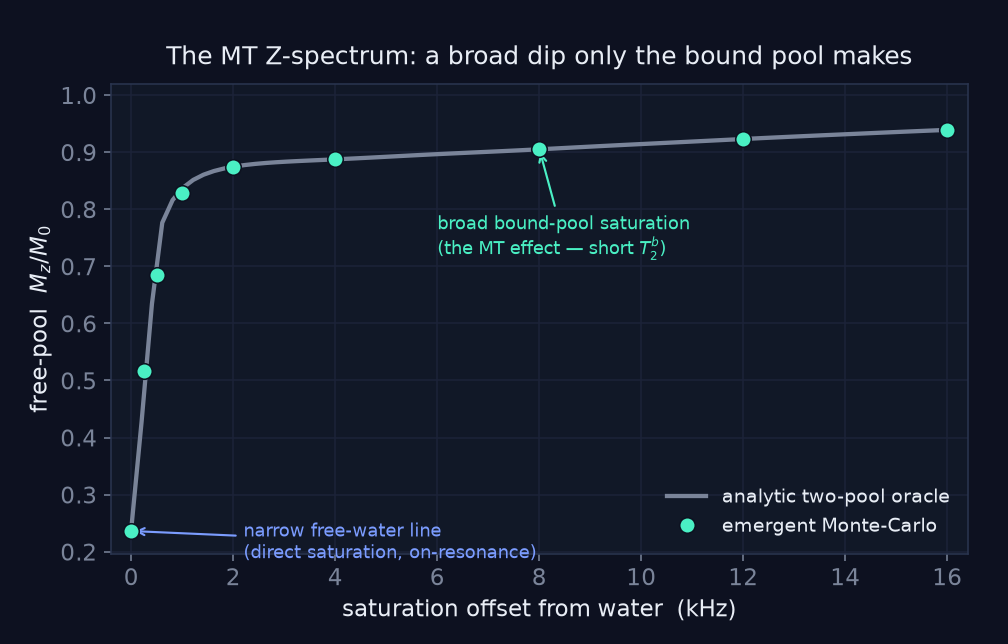
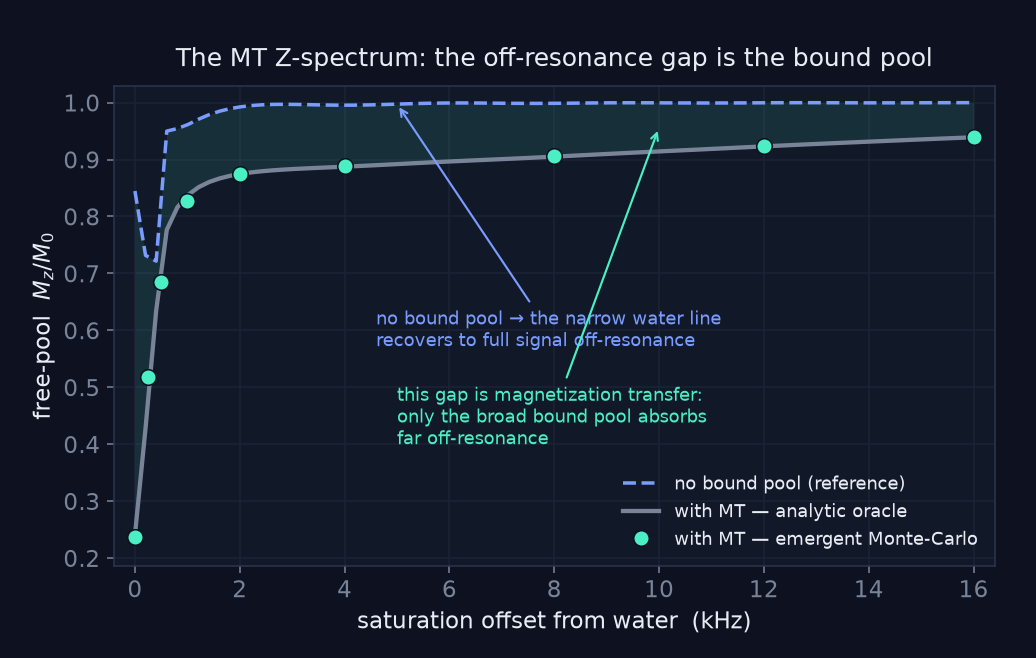
docs(mt): add a no-bound-pool reference line to the Z-spectrum figure
A single curve gave no anchor. Add the free-water-only reference (k_f=0, analytic): it recovers
to full signal off-resonance, so the shaded gap to the MT curve is the transfer itself. Annotate
the reference recovery and the gap; update the caption.

diff --git a/docs/media/fig_mt_zspectrum.py b/docs/media/fig_mt_zspectrum.py
@@ -52,6 +52,14 @@ def _oracle_total(offsets):
     return (za + m0b * zb) / (1.0 + m0b)
 
 
+def _free_only(offsets):
+    """Reference: free water with NO bound pool (k_f=0).  The narrow water line is directly
+    saturated only near resonance and recovers to ~1 off-resonance -- there is no broad
+    off-resonance absorber, so all the wide depression in the MT curve is the bound pool."""
+    return np.atleast_1d(mt.mt_z_spectrum(offsets, w1_hz=W1_HZ, t_sat=T_SAT, T1a=T1A, T2a=T2A,
+                                          T1b=T1B, T2b=T2B, k_f=0.0, k_r=K_R, read_pool="a"))
+
+
 def main():
     print("running emergent Z-spectrum sweep (GPU-recommended)...")
     mc = emergent_z_spectrum(MC_OFFSETS, Sphere(radius=R), n_walkers=6000, diffusivity=D,
@@ -59,27 +67,36 @@ def main():
                              kappa_MT=KAPPA_MT, dwell_time=DWELL, T2_bound=T2B, T1_bound=T1B,
                              equilibrate_binding="auto", seed=3)
     an_dense = _oracle_total(DENSE)
+    ref_dense = _free_only(DENSE)                  # no-bound-pool reference (analytic)
 
-    fig, ax = plt.subplots(figsize=(7.2, 4.6))
+    fig, ax = plt.subplots(figsize=(7.4, 4.7))
     fig.subplots_adjust(left=0.11, right=0.96, top=0.87, bottom=0.14)
+    # the MT effect = the gap between the two curves
+    ax.fill_between(DENSE / 1e3, an_dense, ref_dense, color=TEAL, alpha=0.11, lw=0)
+    ax.plot(DENSE / 1e3, ref_dense, "--", color=BLUE, lw=1.8,
+            label="no bound pool (reference)")
     ax.plot(DENSE / 1e3, an_dense, "-", color=MUTED, lw=2.2,
-            label="analytic two-pool oracle")
+            label="with MT — analytic oracle")
     ax.plot(MC_OFFSETS / 1e3, mc, "o", color=TEAL, ms=8, zorder=5,
-            markeredgecolor=BG, markeredgewidth=0.8, label="emergent Monte-Carlo")
+            markeredgecolor=BG, markeredgewidth=0.8, label="with MT — emergent Monte-Carlo")
     ax.set_xlim(-0.4, 16.4)
-    ax.set_ylim(min(mc.min(), an_dense.min()) - 0.04, 1.02)
+    ax.set_ylim(min(mc.min(), an_dense.min()) - 0.05, 1.03)
     ax.set_xlabel("saturation offset from water  (kHz)")
     ax.set_ylabel(r"free-pool  $M_z / M_0$")
-    ax.set_title("The MT Z-spectrum: a broad dip only the bound pool makes",
+    ax.set_title("The MT Z-spectrum: the off-resonance gap is the bound pool",
                  color=TEXT, fontsize=13, pad=10)
-    # annotate the two regimes
-    ax.annotate("narrow free-water line\n(direct saturation, on-resonance)",
-                xy=(0.0, mc[0]), xytext=(2.2, mc[0] - 0.02), color=BLUE, fontsize=9,
-                va="center", arrowprops=dict(arrowstyle="->", color=BLUE, lw=1.1))
-    ax.annotate("broad bound-pool saturation\n(the MT effect — short $T_2^{b}$)",
-                xy=(8.0, mc[6]), xytext=(6.0, 0.72), color=TEAL, fontsize=9,
+    # reference recovers to full signal off-resonance (the anchor)
+    ax.annotate("no bound pool → the narrow water line\nrecovers to full signal off-resonance",
+                xy=(5.0, ref_dense[np.argmin(np.abs(DENSE - 5000))]),
+                xytext=(4.6, 0.60), color=BLUE, fontsize=9, va="center",
+                arrowprops=dict(arrowstyle="->", color=BLUE, lw=1.1))
+    # the shaded gap = magnetization transfer (only the bound pool absorbs off-resonance)
+    i10 = np.argmin(np.abs(DENSE - 10000))
+    ax.annotate("this gap is magnetization transfer:\nonly the broad bound pool absorbs\nfar off-resonance",
+                xy=(10.0, 0.5 * (an_dense[i10] + ref_dense[i10])),
+                xytext=(5.0, 0.40), color=TEAL, fontsize=9,
                 arrowprops=dict(arrowstyle="->", color=TEAL, lw=1.1))
-    ax.legend(loc="lower right", frameon=False, labelcolor=TEXT, fontsize=10)
+    ax.legend(loc="lower right", frameon=False, labelcolor=TEXT, fontsize=9.5)
     for s in ax.spines.values():
         s.set_color("#2a3550")
     ax.grid(True, color="#1c2338", lw=0.8)

diff --git a/docs/physics/magnetization_transfer.md b/docs/physics/magnetization_transfer.md
@@ -96,7 +96,7 @@ a **broad** offset range — so the free signal stays depressed far off-resonanc
 dip is something **only a bound pool can make**; it is MT's fingerprint, and the observable that
 separates the transfer share of a wall's reactivity from surface relaxivity.
 
-![Emergent MT Z-spectrum: on resonance the free water is directly saturated; far off-resonance the short-T2 bound pool keeps the free signal depressed. The emergent Monte-Carlo points sit on the analytic two-pool oracle.](../media/mt_zspectrum.png)
+![MT Z-spectrum. The dashed reference (no bound pool) recovers to full signal off-resonance; with MT the broad short-T2 bound pool keeps the free signal depressed — the shaded gap is the transfer. The emergent Monte-Carlo points sit on the analytic two-pool oracle.](../media/mt_zspectrum.png)
 
 One call runs it — `dmipy_sim.emergent_z_spectrum(offsets, geometry, …)` does a real forward walk at
 each offset — and the emergent points land on the analytic two-pool oracle (line) to the Monte-Carlo
